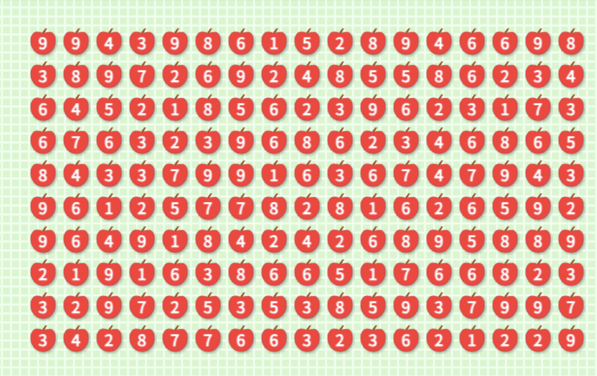
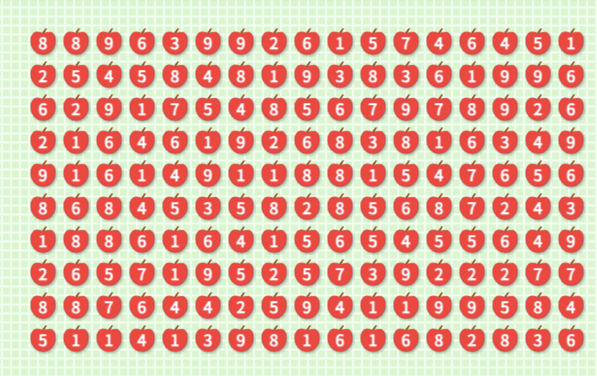
done

diff --git a/AppleGameBot/appleKiller.py b/AppleGameBot/appleKiller.py
@@ -1,82 +1,133 @@
 import cv2
 import pytesseract
 import numpy as np
+import pyautogui
+import gridSolver
+import time
 
-"""
-
-screenshot = pyautogui.screenshot(region=(438, 225, 1065 - 468, 601 - 225))
-screenshot.save("test.png")
-img = np.array(screenshot)
-
-"""
 sizeMultiplier = 8
+startX = 438
+startY = 225
+width, height = 0, 0
 
-img = cv2.imread('test.png')
-img = cv2.resize(img, (img.shape[1] * sizeMultiplier, img.shape[0] * sizeMultiplier))
-hsv = cv2.cvtColor(img, cv2.COLOR_BGR2HSV)
+#pyautogui.mouseInfo()
 
-lower_red1 = np.array([0, 100, 100])
-upper_red1 = np.array([10, 255, 255])
-mask1 = cv2.inRange(hsv, lower_red1, upper_red1)
+def load_and_preprocessing() :
+    screenshot = pyautogui.screenshot(region=(startX, startY, 1035 - startX, 601 - startY)) #?
+    screenshot.save("test.png")
+    img = np.array(screenshot)
 
-lower_red2 = np.array([160, 100, 100])
-upper_red2 = np.array([179, 255, 255])
-mask2 = cv2.inRange(hsv, lower_red2, upper_red2)
+    img = cv2.imread('test.png')
+    img = cv2.resize(img, (img.shape[1] * sizeMultiplier, img.shape[0] * sizeMultiplier))
+    hsv = cv2.cvtColor(img, cv2.COLOR_BGR2HSV)
 
-mask = cv2.bitwise_or(mask1, mask2)
+    lower_red1 = np.array([0, 100, 100])
+    upper_red1 = np.array([10, 255, 255])
+    mask1 = cv2.inRange(hsv, lower_red1, upper_red1)
 
-kernel = cv2.getStructuringElement(cv2.MORPH_ELLIPSE, (3,3))
-mask = cv2.morphologyEx(mask, cv2.MORPH_CLOSE, kernel, iterations=2)
+    lower_red2 = np.array([160, 100, 100])
+    upper_red2 = np.array([179, 255, 255])
+    mask2 = cv2.inRange(hsv, lower_red2, upper_red2)
 
-contours, _ = cv2.findContours(mask, cv2.RETR_EXTERNAL, cv2.CHAIN_APPROX_SIMPLE)
+    mask = cv2.bitwise_or(mask1, mask2)
 
-numbers = []
+    kernel = cv2.getStructuringElement(cv2.MORPH_ELLIPSE, (3,3))
+    mask = cv2.morphologyEx(mask, cv2.MORPH_CLOSE, kernel, iterations=2)
 
-for cnt in contours:
-    x, y, w, h = cv2.boundingRect(cnt)
-    if w < 10 or h < 10:
-        continue
-    
-    #roi = img[y:y+h, x:x+w]
-    roi = img[y+2*sizeMultiplier:y+21*sizeMultiplier, x+4*sizeMultiplier:x+20*sizeMultiplier]
-    gray = cv2.cvtColor(roi, cv2.COLOR_BGR2GRAY)
-    _, gray = cv2.threshold(gray, 180, 255, cv2.THRESH_BINARY_INV)
+    contours, _ = cv2.findContours(mask, cv2.RETR_EXTERNAL, cv2.CHAIN_APPROX_SIMPLE)
 
-    cv2.imwrite('test_cut.png', gray)
-    
-    config = "--psm 10 -c tessedit_char_whitelist=0123456789"
-    text = pytesseract.image_to_string(gray, config=config)
-    
-    digit = text.strip()
-    
-    if digit.isdigit():
-        numbers.append((x, y, digit))
-    else :
-        numbers.append((x, y, '7')) #왜 7만 인식못하니 이친구야
+    return contours, img
 
-numbers_sorted = sorted(numbers, key=lambda v: (v[1], v[0]))
-rows = []
-current_row = []
-row_tolerance = 15 
-for i, (x, y, digit) in enumerate(numbers_sorted):
-    if not current_row:
-        current_row.append((x, y, digit))
-    else:
-        _, prev_y, _ = current_row[-1]
-        if abs(y - prev_y) < row_tolerance:
+def ocr() :
+    numbers = []
+    for cnt in contours : #인식부
+        x, y, w, h = cv2.boundingRect(cnt)
+        #print(x, y, w, h)
+        if w < 10 or h < 10:
+            continue
+        
+        #roi = img[y:y+h, x:x+w]
+        roi = img[y+2*sizeMultiplier:y+21*sizeMultiplier, x+4*sizeMultiplier:x+20*sizeMultiplier]
+        gray = cv2.cvtColor(roi, cv2.COLOR_BGR2GRAY)
+        _, gray = cv2.threshold(gray, 180, 255, cv2.THRESH_BINARY_INV)
+
+        cv2.imwrite('test_cut.png', gray)
+        
+        config = "--psm 10 -c tessedit_char_whitelist=0123456789"
+        text = pytesseract.image_to_string(gray, config=config)
+        
+        digit = text.strip()
+        
+        if digit.isdigit(): #7빼고 다 알아들음
+            numbers.append((x, y, int(digit)))
+        else :
+            numbers.append((x, y, 7)) #왜 7만 인식못하니 이친구야
+
+        width, height = w, h
+
+    return width, height, numbers
+
+def arrange() :
+    numbers_sorted = sorted(numbers, key=lambda v : (v[1], v[0]))
+    rows = []
+    current_row = []
+    row_tolerance = 10 #10이 최대
+    appleArray = []
+    posArray = [] # (x, y)
+
+    for i, (x, y, digit) in enumerate(numbers_sorted):
+        if not current_row :
             current_row.append((x, y, digit))
         else:
-            rows.append(current_row)
-            current_row = [(x, y, digit)]
+            _, prev_y, _ = current_row[-1]
+            if abs(y - prev_y) < row_tolerance:
+                current_row.append((x, y, digit))
+            else:
+                rows.append(current_row)
+                current_row = [(x, y, digit)]
 
-if current_row:
-    rows.append(current_row)
+    if current_row :
+        rows.append(current_row)
 
-two_d_array = []
-for row in rows:
-    row_sorted = sorted(row, key=lambda v: v[0])
-    digits_in_row = [v[2] for v in row_sorted] 
-    two_d_array.append(digits_in_row)
+    for row in rows :
+        row_sorted = sorted(row, key=lambda v: v[0])
+        digits_in_row = [v[2] for v in row_sorted] 
+        appleArray.append(digits_in_row)
+        posArray.append([(v[0], v[1]) for v in row_sorted])
 
-for i, row in enumerate(two_d_array):
-    print(f"Row {i}: {row} [{len(row)}]")
+    for i, row in enumerate(appleArray) :
+        print(f"{row} [{len(row)}]")
+    
+    return appleArray, posArray,     
+
+def drag(x, y, dx, dy) :
+    pyautogui.moveTo(x, y)
+    pyautogui.mouseDown(button='left')
+    pyautogui.moveTo(dx, dy, 0.1)
+    pyautogui.mouseUp()
+    time.sleep(0.1)
+
+def execution() :
+    pyautogui.moveTo(startX, startY)
+    pyautogui.leftClick()
+    bboxs = gridSolver.solve_grid(grid=appleArray)
+    for d in bboxs :
+        """
+        print(d[0][1]) # -> x pos   (0, 0) : (0, 0)
+        print(d[0][0]) # -> y pos   (0, 0) : (0, 0)
+        print(d[1][1]) # -> dx pos  (0, 1) : (1, 0)
+        print(d[1][0]) # -> dy pos  (0, 1) : (1, 0)
+        """
+        x, y = startX + posArray[d[0][0]][d[0][1]][0] / sizeMultiplier, startY + posArray[d[0][0]][d[0][1]][1] / sizeMultiplier
+        dx, dy = startX + posArray[d[1][0]][d[1][1]][0] / sizeMultiplier, startY + posArray[d[1][0]][d[1][1]][1] / sizeMultiplier
+        dx, dy = dx + width / sizeMultiplier, dy + height / sizeMultiplier
+        #print(x, y, dx, dy)
+        drag(x, y, dx, dy)
+        
+    print(f"DONE!")
+
+if __name__ == '__main__' :
+    contours, img = load_and_preprocessing()
+    width, height, numbers = ocr()
+    appleArray, posArray = arrange()
+    execution()

diff --git a/AppleGameBot/gridSolver.py b/AppleGameBot/gridSolver.py
@@ -1,0 +1,100 @@
+import random
+
+def generate_grid(rows=10, cols=17) :
+    return [[random.randint(1, 9) for _ in range(cols)] for _ in range(rows)]
+
+def dfs(i, j, path, current_sum, grid, rows, cols, directions) :
+    if len(path) >= 2 and current_sum == 10 :
+        return path
+    if current_sum > 10 :
+        return None
+
+    for di, dj in directions :
+        ni, nj = i + di, j + dj
+        if 0 <= ni < rows and 0 <= nj < cols and grid[ni][nj] != -1 and (ni, nj) not in path :
+            new_val = grid[ni][nj]
+            result = dfs(ni, nj, path + [(ni, nj)], current_sum + new_val, grid, rows, cols, directions)
+            if result is not None :
+                return result
+        ni2, nj2 = i + 2*di, j + 2*dj
+        mi, mj = i + di, j + dj
+        if 0 <= ni2 < rows and 0 <= nj2 < cols and grid[ni2][nj2] != -1:
+            if grid[mi][mj] == -1 and (ni2, nj2) not in path :
+                new_val = grid[ni2][nj2]
+                result = dfs(ni2, nj2, path + [(ni2, nj2)], current_sum + new_val, grid, rows, cols, directions)
+                if result is not None :
+                    return result
+    return None
+
+def solve_grid(grid) :
+    group_bboxes = []
+    rows, cols = len(grid), len(grid[0])
+    directions = [(0,1), (0,-1), (1,0), (-1,0), (1,1), (1,-1), (-1,1), (-1,-1)]
+    
+    found_group = True
+    while found_group:
+        found_group = False
+        for i in range(rows) :
+            for j in range(cols) :
+                if grid[i][j] != -1:
+                    result = dfs(i, j, [(i, j)], grid[i][j], grid, rows, cols, directions)
+                    if result is not None :
+                        bbox = ((min(r for r, c in result), min(c for r, c in result)),
+                                (max(r for r, c in result), max(c for r, c in result)))
+                        bbox_sum = 0
+                        valid = True
+                        for r in range(bbox[0][0], bbox[1][0] + 1) :
+                            for c in range(bbox[0][1], bbox[1][1] + 1) :
+                                if grid[r][c] != -1 :
+                                    bbox_sum += grid[r][c]
+                                    if bbox_sum > 10 :
+                                        valid = False
+                                        break
+                            if not valid:
+                                break
+                        if valid and bbox_sum == 10 :
+                            group_bboxes.append(bbox)
+                            for r in range(bbox[0][0], bbox[1][0] + 1) :
+                                for c in range(bbox[0][1], bbox[1][1] + 1) :
+                                    grid[r][c] = -1
+                            found_group = True
+                            break
+            if found_group:
+                break
+    return group_bboxes
+
+def find_groups(grid) :
+    rows, cols = len(grid), len(grid[0])
+    found_groups = set()
+    for i in range(rows) :
+        for j in range(cols) :
+            if grid[i][j] != -1 :
+                dfs([(i, j)], grid[i][j])
+    return [list(g) for g in found_groups]
+
+def remove_group(grid, group) :
+    for i, j in group:
+        grid[i][j] = -1
+
+def get_bounding_box(group) :
+    rows = [i for i, j in group]
+    cols = [j for i, j in group]
+    return ((min(rows), min(cols)), (max(rows), max(cols)))
+
+def print_grid(grid) :
+    for row in grid:
+        for i in range(0, len(row), 1) :
+            if (row[i] == -1) :
+                row[i] = 0
+        print(" ".join(f"{val:2d}" for val in row))
+
+if __name__ == '__main__' :
+    grid = generate_grid()
+    print_grid(grid)
+    print("")
+    
+    total_removals = solve_grid(grid)
+    print_grid(grid)
+
+    print("")
+    print(f"{total_removals}")
